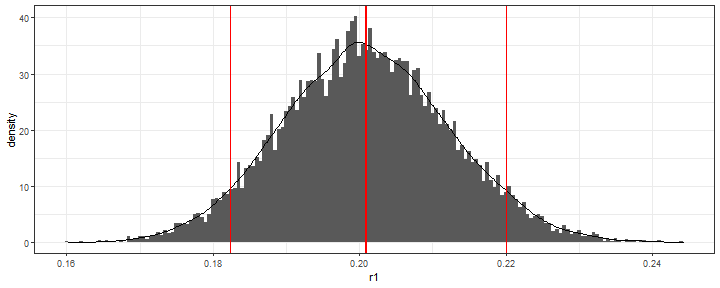
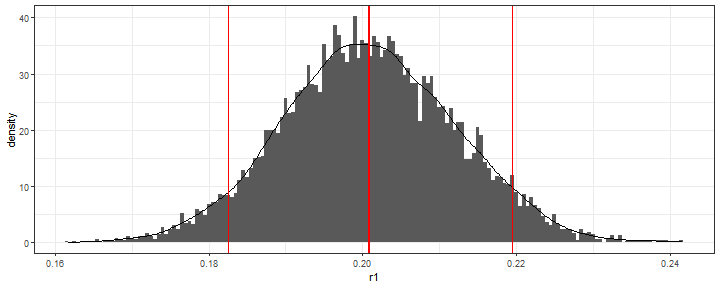
create extra slides section

diff --git a/serosurvey-user21.html b/serosurvey-user21.html
@@ -59,7 +59,7 @@ pre {
 
 --
 
-- We created the __serosurvey R package__ to gather Serological Survey Analysis (known and recently developed) __functions__ and __workflow__ templates.
+- We created the __[serosurvey](https://avallecam.github.io/serosurvey/) R package__ to gather known and recently developed __functions__ and build __workflow__ templates.
 
 
 ---
@@ -137,7 +137,11 @@ From a [`srvyr`](http://gdfe.co/srvyr/) [`survey`](https://r-survey.r-forge.r-pr
 
 --
 
-- We provide __tidy outputs for bayesian approaches__ developed 
+- We provide functions with __tidy outputs__ for frequentist and bayesian approaches available in GitHub repos to solve the inherited __misclassification__.
+
+--
+
+- One function adapted the __bayesian approach__ developed 
 by Larremore, et al. 2021 for [known](https://github.com/LarremoreLab/covid_serological_sampling/blob/master/codebase/seroprevalence.R) test performance
 
 --
@@ -165,7 +169,7 @@ by Larremore, et al. 2021 for [known](https://github.com/LarremoreLab/covid_sero
 ## # A tibble: 1 x 5
 ##   skim_variable numeric.p05 numeric.mean numeric.p50 numeric.p95
 ##   &lt;chr&gt;               &lt;dbl&gt;        &lt;dbl&gt;       &lt;dbl&gt;       &lt;dbl&gt;
-## 1 r1                  0.182        0.201       0.201       0.220
+## 1 r1                  0.183        0.201       0.201       0.219
 ```
 
 &lt;img src="serosurvey-user21_files/figure-html/unnamed-chunk-9-1.png" title="One ggplot panel with density as vertical y-axis. Histogram and density plot of the Posterior Distribution of the Prevalence accounting for misclassification from a diagnostic test with known performance. Additionally, it includes vertical lines at the mean, 5% and 95% percentiles." alt="One ggplot panel with density as vertical y-axis. Histogram and density plot of the Posterior Distribution of the Prevalence accounting for misclassification from a diagnostic test with known performance. Additionally, it includes vertical lines at the mean, 5% and 95% percentiles."  /&gt;
@@ -178,7 +182,7 @@ by Larremore, et al. 2021 for [known](https://github.com/LarremoreLab/covid_sero
 
 --
 
-- And also for [unknown](https://github.com/LarremoreLab/bayesian-joint-prev-se-sp/blob/master/singleSERO_uncertainTEST.R) 
+- And a second one did the same with other __bayesian approach__ developed by Larremore et al. 2020 for [unknown](https://github.com/LarremoreLab/bayesian-joint-prev-se-sp/blob/master/singleSERO_uncertainTEST.R) 
 test performance.
 
 --
@@ -210,9 +214,9 @@ test performance.
 ## # A tibble: 3 x 5
 ##   skim_variable numeric.p05 numeric.mean numeric.p50 numeric.p95
 ##   &lt;chr&gt;               &lt;dbl&gt;        &lt;dbl&gt;       &lt;dbl&gt;       &lt;dbl&gt;
-## 1 r                0.000588      0.00979     0.00721      0.0277
-## 2 se               0.881         0.899       0.900        0.917 
-## 3 sp               0.771         0.786       0.786        0.801
+## 1 r                0.000674       0.0100     0.00757      0.0274
+## 2 se               0.881          0.899      0.900        0.917 
+## 3 sp               0.771          0.786      0.786        0.801
 ```
 
 &lt;img src="serosurvey-user21_files/figure-html/unnamed-chunk-13-1.png" title="Three ggplot facet panels with the same vertical y-axis of density. Histogram and density plots of the Posterior Distribution of the (i) r: Prevalence accounting for misclassification from a diagnostic test with unknown performance; (ii) se: Sensitivity; (iii) sp: Specificity." alt="Three ggplot facet panels with the same vertical y-axis of density. Histogram and density plots of the Posterior Distribution of the (i) r: Prevalence accounting for misclassification from a diagnostic test with unknown performance; (ii) se: Sensitivity; (iii) sp: Specificity."  /&gt;
@@ -389,29 +393,7 @@ toc()
 ```
 
 
-&lt;!-- --- --&gt;
 
-&lt;!-- # Results --&gt;
-
-&lt;!-- -- --&gt;
-
-&lt;!-- - For the __survey__ side, we provide functions to calculate single prevalences and generate __tidy outputs__ for a hierarchical bayesian approach that incorporates the __unknown__ test performance --&gt;
-
-&lt;!-- -- --&gt;
-
-&lt;!-- - For the __serology__ side, we gather functions of methods available in GitHub repos to solve the inherited misclassification in population-based serological surveys. --&gt;
-
-&lt;!-- -- --&gt;
-
-&lt;!-- - We created a __workflow__ that simulates the usage of an __imperfect test__ to measure an outcome within a __multi-stage sampling__ survey design and incorporate the test uncertainty into the sampling design uncertainty. --&gt;
-
-&lt;!-- -- --&gt;
-
-&lt;!-- - The `serosurvey` R package was used in the analysis code of the Lima seroprevalence study.  --&gt;
-
-&lt;!-- -- --&gt;
-
-&lt;!-- [1] Reyes-Vega, Mary F., et al. "SARS-CoV-2 prevalence associated to low socioeconomic status and overcrowding in an LMIC megacity: A population-based seroepidemiological survey in Lima, Peru." _EClinicalMedicine_ 34 (2021): 100801. https://doi.org/10.1016/j.eclinm.2021.100801 --&gt;
 
 ---
 
@@ -433,46 +415,6 @@ toc()
 
 - Specially in our capacity to __generate comparable results__ from studies with similar epidemiological designs and statistical analysis plans.
 
---
-
-- The `serosurvey` R package was used in the analysis code of the Lima seroprevalence study. 
-
---
-
-[1] Reyes-Vega, Mary F., et al. "SARS-CoV-2 prevalence associated to low socioeconomic status and overcrowding in an LMIC megacity: A population-based seroepidemiological survey in Lima, Peru." _EClinicalMedicine_ 34 (2021): 100801. https://doi.org/10.1016/j.eclinm.2021.100801
-
-&lt;!-- --- --&gt;
-
-&lt;!-- # Next steps --&gt;
-
-&lt;!-- -- --&gt;
-
-&lt;!-- - Adjust to the __rOpenSci__ packaging guidelines --&gt;
-
-&lt;!-- -- --&gt;
-
-&lt;!-- - Submit package to __CRAN__ --&gt;
-
-&lt;!-- -- --&gt;
-
-&lt;!-- - Integrate it to the R Epidemic Consortium __RECON__ --&gt;
-
-&lt;!-- -- --&gt;
-
-&lt;!-- - Welcome new functions and workflows to the package via __GitHub__! --&gt;
-
-&lt;!-- -- --&gt;
-
-&lt;!-- .footnote[ --&gt;
-&lt;!-- [1] https://devguide.ropensci.org/building.html --&gt;
-
-&lt;!-- [2] https://www.repidemicsconsortium.org/resources/guidelines/ --&gt;
-
-&lt;!-- [3] https://twitter.com/avallecam/status/1312670190694535169 --&gt;
-&lt;!-- ] --&gt;
-
-
-
 ---
 
 class: center, middle
@@ -485,8 +427,7 @@ class: center, middle
 
 class: chapter-slide
 
-# References
-
+# Extra slides
 
 ---
 
@@ -520,6 +461,63 @@ class: chapter-slide
 [8] Larremore, DB, et al. 2021. “Estimating SARS-CoV-2 Seroprevalence and Epidemiological Parameters with Uncertainty from Serological Surveys.” _eLife_, March. https://doi.org/10.7554/eLife.64206.
 
 [9] Larremore, DB., et al. 2020. “Jointly Modeling Prevalence, Sensitivity and Specificity for Optimal Sample Allocation.” _bioRxiv_, May. https://doi.org/10.1101/2020.05.23.112649.
+
+
+---
+
+# Key Results
+
+--
+
+- For the __survey__ side, we provide functions to calculate single prevalences and generate __tidy outputs__ for a hierarchical bayesian approach that incorporates the __unknown__ test performance
+
+--
+
+- For the __serology__ side, we gather functions of methods available in GitHub repos to solve the inherited misclassification in population-based serological surveys.
+
+--
+
+- We created a __workflow__ that simulates the usage of an __imperfect test__ to measure an outcome within a __multi-stage sampling__ survey design and incorporate the test uncertainty into the sampling design uncertainty.
+
+--
+
+- The `serosurvey` R package was used in the analysis code of the Lima seroprevalence study. 
+
+--
+
+[10] Reyes-Vega, Mary F., et al. "SARS-CoV-2 prevalence associated to low socioeconomic status and overcrowding in an LMIC megacity: A population-based seroepidemiological survey in Lima, Peru." _EClinicalMedicine_ 34 (2021): 100801. https://doi.org/10.1016/j.eclinm.2021.100801
+
+
+
+---
+
+# Next steps
+
+--
+
+- Adjust to the __rOpenSci__ packaging guidelines
+
+--
+
+- Submit package to __CRAN__
+
+--
+
+- Integrate it to the R Epidemic Consortium __RECON__
+
+--
+
+- Welcome new functions and workflows to the package via __GitHub__!
+
+--
+
+.footnote[
+[1] https://devguide.ropensci.org/building.html
+
+[2] https://www.repidemicsconsortium.org/resources/guidelines/
+
+[3] https://twitter.com/avallecam/status/1312670190694535169
+]
     </textarea>
 <style data-target="print-only">@media screen {.remark-slide-container{display:block;}.remark-slide-scaler{box-shadow:none;}}</style>
 <script src="https://remarkjs.com/downloads/remark-latest.min.js"></script>
